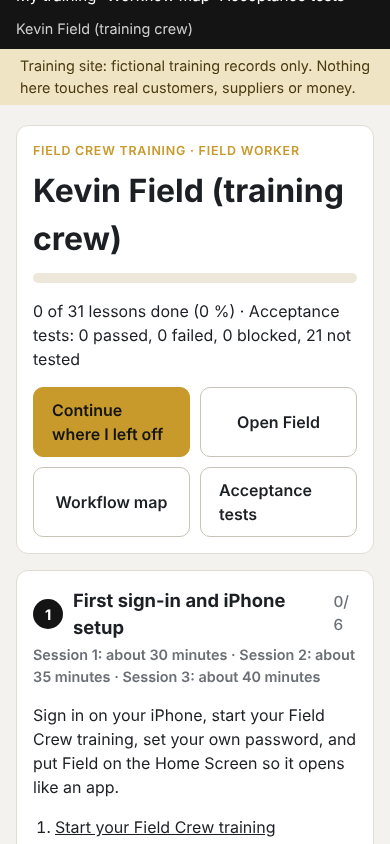
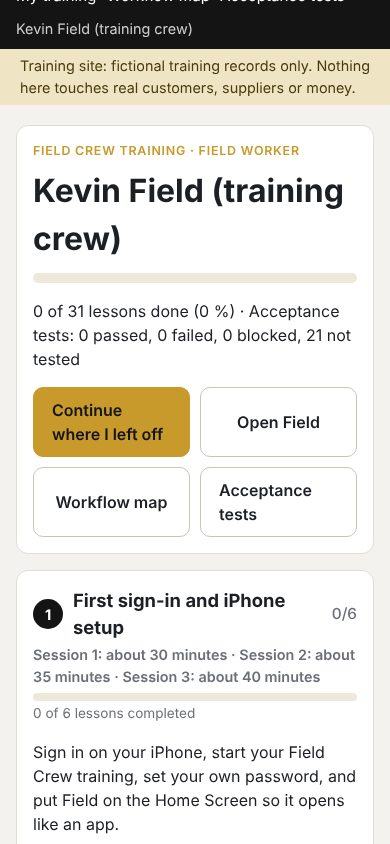
Training home: Completed, In Progress and Next lesson status; review is read-only
On the Contractor, Field Crew and Supplier training homes, from the existing saved progress:
a green checked box and Completed beside each finished lesson with a Review again link,
In Progress (with the steps ticked) for started lessons, the next recommended lesson (where
Continue where I left off goes) highlighted with a Next badge, and per-module counts with a
progress bar and Module complete. Module time estimates and sessions are kept.

Reviewing a completed lesson no longer writes anything: opening or stepping through it used
to move the trainee's resume point, and a tick could be undone; now save_step, check_step and
complete_lesson leave a completed lesson's record (completed_at, ticks, release) and the resume
point untouched. The lesson page says it is being reviewed, ticks are shown but disabled and
Finish is hidden. No model, migration, lesson key or UAT change.

Tests: tests/test_training_progress_status.py (all three pathways); two training-walk checks
(desktop and phone 390 px); BROWSER_EXPECTED 213 -> 215. Recaptured the four training-home
lesson screenshots.

Claude-Session: https://claude.ai/code/session_01Gt3yQsGEScje26ZopVkG3s

Changed region(s): [[0.0615, 0.8009, 0.9231, 1.0], [0.8308, 0.7085, 0.9231, 0.7393]]

diff --git a/app/templates/training/home.html b/app/templates/training/home.html
@@ -17,14 +17,18 @@
   </div>
 </section>
 {% for row in ov.modules %}
-<section class="tc-card tc-module" data-module="{{ row.module.key }}">
-  <h2><span class="tc-num">{{ row.module.number }}</span> {{ row.module.title }} <small>{{ row.done }}/{{ row.total }}</small></h2>
+<section class="tc-card tc-module{% if row.done == row.total %} tc-module-complete{% endif %}" data-module="{{ row.module.key }}">
+  <h2><span class="tc-num">{{ row.module.number }}</span> {{ row.module.title }} <small data-module-count>{{ row.done }}/{{ row.total }}</small></h2>
   {% if row.time %}<p class="tc-module-time" data-module-time="{{ row.time.minutes }}">{% if row.time.split %}{% for s in row.time.sessions %}<span data-session="{{ s.number }}">Session {{ s.number }}: {{ s.label|lower }}</span>{% if not loop.last %} · {% endif %}{% endfor %}{% else %}{{ row.time.label }}{% endif %}</p>{% endif %}
+  <div class="tc-module-progress" data-module-progress="{{ row.percent }}">
+    <div class="tc-bar tc-bar-module" role="progressbar" aria-label="{{ row.module.title }} progress" aria-valuenow="{{ row.percent }}" aria-valuemin="0" aria-valuemax="100"><span style="width: {{ row.percent }}%"></span></div>
+    <p class="tc-small" data-module-summary>{% if row.done == row.total %}<b class="tc-module-done">&#10003; Module complete</b> · {{ row.total }} of {{ row.total }} lessons completed{% else %}{{ row.done }} of {{ row.total }} lessons completed{% if row.started %} · {{ row.started }} in progress{% endif %}{% endif %}</p>
+  </div>
   <p>{{ row.module.summary }}</p>
   <ol class="tc-lessons">
     {% for x in row.lessons %}
-    <li class="tc-lesson tc-{{ x.state }}">{% if x.session_start %}<span class="tc-session-break" data-session-start="{{ x.session_start }}">Session {{ x.session_start }}</span>{% endif %}<a href="{{ url_for('training.lesson', key=x.lesson.key, step=x.step) }}" data-lesson="{{ x.lesson.key }}">{{ x.lesson.title }}</a>
-      <span class="tc-state" data-lesson-state>{% if x.state == 'done' %}Done{% elif x.ticked %}{{ x.ticked }} of {{ x.steps }} steps{% elif x.state == 'started' %}Started{% endif %}</span></li>
+    <li data-lesson-row="{{ x.lesson.key }}" data-lesson-status="{{ 'completed' if x.state == 'done' else ('in-progress' if x.state == 'started' else 'not-started') }}"{% if x.next %} data-next-recommended{% endif %} class="tc-lesson tc-{{ x.state }}{% if x.next %} tc-next{% endif %}">{% if x.session_start %}<span class="tc-session-break" data-session-start="{{ x.session_start }}">Session {{ x.session_start }}</span>{% endif %}<span class="tc-lesson-line"><span class="tc-lesson-box" aria-hidden="true">{% if x.state == 'done' %}&#10003;{% endif %}</span><a href="{{ url_for('training.lesson', key=x.lesson.key, step=0 if x.state == 'done' else x.step) }}" data-lesson="{{ x.lesson.key }}">{{ x.lesson.title }}</a></span>
+      <span class="tc-lesson-badges">{% if x.state == 'done' %}<span class="tc-badge tc-badge-done" data-lesson-state>Completed</span> <a class="tc-review-again" href="{{ url_for('training.lesson', key=x.lesson.key, step=0) }}" data-review-again="{{ x.lesson.key }}" aria-label="Review again: {{ x.lesson.title }}">Review again</a>{% elif x.state == 'started' %}<span class="tc-badge tc-badge-progress" data-lesson-state>In Progress</span> <span class="tc-state" data-lesson-steps>{% if x.ticked %}{{ x.ticked }} of {{ x.steps }} steps{% else %}Started{% endif %}</span>{% endif %}{% if x.next %} <span class="tc-badge tc-badge-next" data-next-badge>Next</span>{% endif %}</span></li>
     {% endfor %}
   </ol>
 </section>

diff --git a/app/templates/training/lesson.html b/app/templates/training/lesson.html
@@ -5,6 +5,8 @@
 <article class="tc-card tc-lesson-page" data-lesson-page="{{ lesson.key }}" data-step-index="{{ step }}">
   <p class="tc-eyebrow">Module {{ module.number }} · {{ module.title }}</p>
   <h1>{{ lesson.title }}</h1>
+  {% set reviewing = progress and progress.completed_at %}
+  {% if reviewing %}<p class="tc-review-note" data-reviewing><span class="tc-badge tc-badge-done">&#10003; Completed</span> {{ progress.completed_at|local_time("%d %b %Y", zone_label=False) }}. You are reviewing this lesson: step through it as often as you like. Your completion and your acceptance test results stay as they are.</p>{% endif %}
   {% if workflow_stages %}<p class="tc-small tc-workflow-stage" data-lesson-stages>Workflow map:
     {% for s in workflow_stages %}<a href="{{ url_for('training.workflow_map', stage=s.id) }}#workflow-stage" data-lesson-stage="{{ s.id }}">Stage {{ s.number }} · {{ s.label }} — {{ s.title }}</a>{% if not loop.last %} · {% endif %}{% endfor %}</p>{% endif %}
   <div class="tc-intro"><p><b>What you will do:</b> {{ lesson.what }}</p><p><b>Why it matters:</b> {{ lesson.why }}</p>
@@ -46,7 +48,7 @@
         <input type="hidden" name="csrf_token" value="{{ csrf_token() }}">
         <input type="hidden" name="step" value="{{ i }}">
         <input type="hidden" name="done" value="{{ '0' if i in ticked else '1' }}">
-        <button type="submit" class="tc-tick-btn{% if i in ticked %} is-done{% endif %}" data-tick="{{ i }}" aria-pressed="{{ 'true' if i in ticked else 'false' }}">
+        <button type="submit" class="tc-tick-btn{% if i in ticked %} is-done{% endif %}" data-tick="{{ i }}" aria-pressed="{{ 'true' if i in ticked else 'false' }}"{% if reviewing %} disabled title="This lesson is completed: reviewing it keeps your ticks"{% endif %}>
           <span class="tc-tick-box" aria-hidden="true">{% if i in ticked %}&#10003;{% endif %}</span>
           <span class="tc-tick-label">{{ 'Done' if i in ticked else 'I did this step' }}</span>
         </button>
@@ -59,9 +61,9 @@
     <input type="hidden" name="csrf_token" value="{{ csrf_token() }}">
     <h2>Practice exercise</h2>
     <p>{{ lesson.exercise }}</p>
-    <label><input type="checkbox" name="exercise_done" value="1" {% if progress and progress.exercise_done %}checked{% endif %} data-exercise> I did the practice exercise on the training site</label>
-    <button class="tc-btn tc-btn-primary" type="submit" data-complete>Finish this lesson</button>
-    {% if progress and progress.completed_at %}<p class="tc-lesson-done" data-lesson-complete>&#10003; Lesson complete</p>{% endif %}
+    {% if reviewing %}<p class="tc-lesson-done" data-lesson-complete>&#10003; Lesson complete</p>
+    {% else %}<label><input type="checkbox" name="exercise_done" value="1" {% if progress and progress.exercise_done %}checked{% endif %} data-exercise> I did the practice exercise on the training site</label>
+    <button class="tc-btn tc-btn-primary" type="submit" data-complete>Finish this lesson</button>{% endif %}
   </form>
   <form method="post" action="{{ url_for('training.move', key=lesson.key) }}" class="tc-moves">
     <input type="hidden" name="csrf_token" value="{{ csrf_token() }}">

diff --git a/app/static/training/training.css b/app/static/training/training.css
@@ -124,3 +124,27 @@ dl dt { font-weight:700; margin-top:10px; } dl dd { margin:2px 0 0; overflow-wra
 /* Module times (Joel, 23 Oct 2026): "About 35 minutes", or Session 1 / Session 2 between lessons. */
 .tc-module-time { margin:-4px 0 6px; font-size:.9rem; font-weight:600; color:var(--muted, #5b6470); }
 .tc-session-break { display:block; margin:10px 0 2px; font-size:.78rem; font-weight:700; letter-spacing:.04em; text-transform:uppercase; color:var(--muted, #5b6470); }
+/* Lesson status on the training home (24 Oct 2026): Completed, In Progress and the next recommended lesson, from the
+   saved progress. Reviewing a completed lesson never changes it. */
+.tc-lesson { padding:5px 8px; border-radius:10px; border:1px solid transparent; overflow-wrap:anywhere; }
+.tc-lesson-line { display:inline; }
+.tc-lesson-line a { margin-left:6px; }
+.tc-lesson.tc-done a::before { content:none; }
+.tc-lesson-box { display:inline-grid; vertical-align:-4px; place-items:center; width:22px; height:22px; border:2px solid #c9c4b8; border-radius:5px; background:#fff; color:#fff; font-size:.9rem; font-weight:700; line-height:1; }
+.tc-done .tc-lesson-box { background:var(--green); border-color:var(--green); }
+.tc-started .tc-lesson-box { border-color:var(--amber); background:linear-gradient(90deg, #f3e3b8 50%, #fff 50%); }
+.tc-lesson-badges { display:inline-flex; flex-wrap:wrap; align-items:center; gap:4px 8px; margin-left:6px; vertical-align:middle; }
+.tc-lesson-badges .tc-state { margin-left:0; }
+.tc-badge { display:inline-block; padding:1px 9px; border-radius:999px; font-size:.8rem; font-weight:700; line-height:1.6; white-space:nowrap; }
+.tc-badge-done { background:#e3f1e8; color:var(--green); }
+.tc-badge-progress { background:#f6ecd2; color:#7a5500; }
+.tc-badge-next { background:var(--gold); color:#141414; }
+.tc-review-again { font-size:.85rem; font-weight:600; color:var(--green); }
+.tc-lesson.tc-next { border-color:var(--gold); background:#fbf6e8; box-shadow:0 0 0 2px rgba(199,154,43,.2); }
+.tc-module-progress { margin:4px 0 8px; } .tc-module-progress .tc-bar { height:8px; margin:6px 0 2px; }
+.tc-module-progress p { margin:0; }
+.tc-module-done { color:var(--green); }
+.tc-module-complete .tc-bar span { background:var(--green); }
+.tc-review-note { background:#eef6f0; border:1px solid #9fd0b0; border-radius:10px; padding:10px 12px; }
+.tc-tick-btn:disabled { cursor:default; opacity:.85; }
+.tc-module h2 small { white-space:nowrap; }

diff --git a/tests/test_training_progress_status.py b/tests/test_training_progress_status.py
@@ -1,0 +1,137 @@
+"""Training home lesson status (Joel, 24 Oct 2026): Completed with a green check and Review again, In Progress,
+the next recommended lesson highlighted, module counts, on the Contractor, Field Crew and Supplier pathways, all
+from the saved progress. Reviewing a completed lesson (opening it, stepping through it, ticking, Save and exit,
+Finish again) changes neither its completion nor any acceptance test result. Synthetic data only."""
+
+from __future__ import annotations
+
+import re
+
+import pytest
+
+from app import db
+from app.models.training import TrainingLessonProgress, TrainingTrainee, TrainingUatResult
+from app.training import content as C
+from app.training import service
+from tests.test_training_centre import _client, _get, _post, app  # noqa: F401  (the app fixture)
+
+pytestmark = pytest.mark.no_office_auth
+
+PATHWAYS = [("ben", "OWNER", "CONTRACTOR"), ("kevin", "FIELD", "FIELD_CREW"), ("darcy", "SUPPLIER_ADMIN", "SUPPLIER")]
+
+
+def _finish(client, lesson):
+    for i in range(len(lesson.steps)):
+        _post(client, f"/training/lessons/{lesson.key}/check", data={"step": i, "done": "1"},
+              headers={"X-Requested-With": "fetch"})
+    assert _post(client, f"/training/lessons/{lesson.key}/complete", data={"exercise_done": "1"}).status_code == 302
+
+
+def _row(home, key):
+    m = re.search(rf'<li data-lesson-row="{re.escape(key)}"(.*?)</li>', home, re.S)
+    assert m, key
+    return m.group(0)
+
+
+def _record(trainee_id):
+    db.session.expire_all()
+    lessons = {p.lesson_key: (p.step_reached, sorted(p.steps_done or []), p.exercise_done, p.completed_at, p.release)
+               for p in TrainingLessonProgress.query.filter_by(trainee_id=trainee_id)}
+    uat = [(r.case_key, r.attempt, r.status, r.notes, r.issue, r.recorded_at)
+           for r in TrainingUatResult.query.filter_by(trainee_id=trainee_id).order_by(TrainingUatResult.id)]
+    return lessons, uat
+
+
+@pytest.mark.parametrize("who,role,track", PATHWAYS)
+def test_home_shows_completed_in_progress_next_and_module_counts(app, who, role, track):  # noqa: F811
+    client = _client(app, who)
+    _post(client, "/training/register", data={"role": role})
+    lessons = C.lessons_for(track, role)
+    first, second, third = lessons[0][1], lessons[1][1], lessons[2][1]
+    _finish(client, first)
+    # The second lesson is started (one step ticked) and left with Save and exit.
+    _post(client, f"/training/lessons/{second.key}/check", data={"step": 0, "done": "1"})
+    _post(client, f"/training/lessons/{second.key}/move", data={"step": 1, "action": "exit"})
+    home = _get(client, "/training").get_data(as_text=True)
+
+    done = _row(home, first.key)
+    assert 'data-lesson-status="completed"' in done and "tc-done" in done
+    assert '<span class="tc-lesson-box" aria-hidden="true">&#10003;</span>' in done
+    assert ">Completed</span>" in done and f'data-review-again="{first.key}"' in done and "Review again" in done
+    assert f"/training/lessons/{first.key}?step=0" in done  # completed lessons stay clickable, from the start
+    assert "data-next-recommended" not in done
+
+    started = _row(home, second.key)
+    assert 'data-lesson-status="in-progress"' in started and ">In Progress</span>" in started
+    assert f"1 of {len(second.steps)} steps" in started
+    assert "data-next-recommended" in started and "tc-next" in started and ">Next</span>" in started
+    assert home.count("data-next-recommended") == 1 and home.count("data-next-badge") == 1
+
+    fresh = _row(home, third.key)
+    assert 'data-lesson-status="not-started"' in fresh and "Completed" not in fresh and "In Progress" not in fresh
+
+    ov = service.overview(TrainingTrainee.query.one())
+    row = ov["modules"][0]
+    m = re.search(rf'data-module="{row["module"].key}".*?</section>', home, re.S).group(0)
+    assert f'<small data-module-count>{row["done"]}/{row["total"]}</small>' in m
+    assert f'data-module-progress="{row["percent"]}"' in m
+    in_module = {x["lesson"].key for x in row["lessons"]}
+    assert row["done"] == 1 and row["started"] == (1 if second.key in in_module else 0)
+    assert f"{row['done']} of {row['total']} lessons completed" in m
+    # Module times are kept.
+    if row["time"]:
+        assert f'data-module-time="{row["time"].minutes}"' in m
+
+
+def test_a_finished_module_shows_module_complete(app):  # noqa: F811
+    ben = _client(app, "ben")
+    _post(ben, "/training/register", data={"role": "OWNER"})
+    module = C.modules_for("CONTRACTOR", "OWNER")[0]
+    for lesson in module.lessons:
+        _finish(ben, lesson)
+    home = _get(ben, "/training").get_data(as_text=True)
+    m = re.search(rf'<section [^>]*data-module="{module.key}".*?</section>', home, re.S).group(0)
+    assert "tc-module-complete" in m and "Module complete" in m and 'data-module-progress="100"' in m
+    assert m.count('data-lesson-status="completed"') == len(module.lessons)
+    nxt = C.modules_for("CONTRACTOR", "OWNER")[1].lessons[0]
+    assert "data-next-recommended" in _row(home, nxt.key)
+
+
+@pytest.mark.parametrize("who,role,track", PATHWAYS)
+def test_reviewing_a_completed_lesson_changes_nothing(app, who, role, track):  # noqa: F811
+    client = _client(app, who)
+    _post(client, "/training/register", data={"role": role})
+    lessons = C.lessons_for(track, role)
+    first, second = lessons[0][1], lessons[1][1]
+    _finish(client, first)
+    # Part-way through the next lesson, and acceptance results with a retest.
+    _post(client, f"/training/lessons/{second.key}/check", data={"step": 0, "done": "1"})
+    trainee = TrainingTrainee.query.one()
+    case = C.uat_for(track, role)[0].key
+    _post(client, f"/training/uat/{case}", data={"status": "FAIL", "issue": "Synthetic issue", "notes": "first try"})
+    _post(client, f"/training/uat/{case}", data={"status": "PASS", "notes": "retest"})
+    db.session.expire_all()
+    resume = TrainingTrainee.query.one().training_resume
+    before = _record(trainee.id)
+    assert before[0][first.key][3] is not None and len(before[1]) == 2
+
+    page = _get(client, f"/training/lessons/{first.key}?step=0").get_data(as_text=True)
+    assert "data-reviewing" in page and "Completed" in page and "data-complete" not in page
+    assert page.count('data-tick="') == len(first.steps) and page.count(" disabled title=") == len(first.steps)
+    for i in range(len(first.steps)):  # stepping through
+        assert _get(client, f"/training/lessons/{first.key}?step={i}").status_code == 200
+        _post(client, f"/training/lessons/{first.key}/move", data={"step": i, "action": "next"})
+    # An untick (a stale page or a hand-made request) is ignored on a completed lesson.
+    r = _post(client, f"/training/lessons/{first.key}/check", data={"step": 0, "done": "0"},
+              headers={"X-Requested-With": "fetch"})
+    assert r.status_code == 200 and r.get_json()["done"] is True and r.get_json()["ticked"] == len(first.steps)
+    _post(client, f"/training/lessons/{first.key}/complete", data={"exercise_done": "1"})
+    _post(client, f"/training/lessons/{first.key}/move", data={"step": 0, "action": "exit"})
+
+    assert _record(trainee.id) == before  # same completed_at, ticks, release; UAT attempts unchanged
+    assert TrainingTrainee.query.one().training_resume == resume  # Continue still goes to the lesson in progress
+    home = _get(client, "/training").get_data(as_text=True)
+    assert 'data-lesson-status="completed"' in _row(home, first.key)
+    assert "data-next-recommended" in _row(home, second.key)
+    assert f"/training/lessons/{second.key}?step=" in re.search(r'data-continue href="([^"]+)"', home).group(1)
+    assert _get(client, "/training/uat").status_code == 200

diff --git a/app/training/service.py b/app/training/service.py
@@ -140,8 +140,10 @@ def _overview(trainee, track: str, role: str) -> dict:
         starts = time.session_starts() if time else {}
         for x in lessons:
             x["session_start"] = starts.get(x["lesson"].key)
-        rows.append({"module": module, "lessons": lessons, "time": time,
-                     "done": sum(1 for x in lessons if x["state"] == "done"), "total": len(lessons)})
+        m_done = sum(1 for x in lessons if x["state"] == "done")
+        rows.append({"module": module, "lessons": lessons, "time": time, "done": m_done, "total": len(lessons),
+                     "started": sum(1 for x in lessons if x["state"] == "started"),
+                     "percent": int(round(100 * m_done / len(lessons))) if lessons else 0})
     nxt = None
     if trainee.training_resume and track == trainee.track:
         key, _, step = trainee.training_resume.partition(":")
@@ -150,6 +152,10 @@ def _overview(trainee, track: str, role: str) -> dict:
     if nxt is None:
         first = next((x for r in rows for x in r["lessons"] if x["state"] != "done"), None)
         nxt = (first["lesson"].key, first["step"]) if first else None
+    # The next recommended lesson (24 Oct 2026) is the one Continue where I left off opens; it is highlighted.
+    for r in rows:
+        for x in r["lessons"]:
+            x["next"] = bool(nxt and x["lesson"].key == nxt[0])
     return {"modules": rows, "done": done, "total": total, "percent": int(round(100 * done / total)) if total else 0,
             "resume": nxt}
 
@@ -171,6 +177,10 @@ def save_step(trainee, key: str, step: int) -> TrainingLessonProgress:
     _module, lesson = lesson_for_trainee(trainee, key)
     step = max(0, min(int(step), len(lesson.steps) - 1))
     p = TrainingLessonProgress.query.filter_by(trainee_id=trainee.id, lesson_key=key).first()
+    if p is not None and p.completed_at:
+        # Reviewing a completed lesson (24 Oct 2026) is read-only: opening it or stepping through it changes
+        # neither its record nor where Continue where I left off goes.
+        return p
     if p is None:
         p = TrainingLessonProgress(trainee_id=trainee.id, lesson_key=key, step_reached=step, steps_done=[],
                                    exercise_done=False, release=release_label())
@@ -188,6 +198,8 @@ def check_step(trainee, key: str, index: int, done: bool) -> TrainingLessonProgr
     if not 0 <= index < len(lesson.steps):
         raise TrainingError("That step is not in this lesson.")
     p = save_step(trainee, key, index)
+    if p.completed_at:
+        return p  # a completed lesson's ticks are kept as they were; review cannot untick them
     ticked = set(p.steps_done or [])
     if done:
         ticked.add(index)
@@ -208,6 +220,9 @@ def steps_ticked(trainee, key: str) -> List[int]:
 
 def complete_lesson(trainee, key: str, exercise_done: bool) -> TrainingLessonProgress:
     _module, lesson = lesson_for_trainee(trainee, key)
+    done = TrainingLessonProgress.query.filter_by(trainee_id=trainee.id, lesson_key=key).first()
+    if done is not None and done.completed_at:
+        return done  # already complete: its completion date and release stay as recorded
     missing = [i + 1 for i in range(len(lesson.steps)) if i not in set(steps_ticked(trainee, key))]
     if missing:
         raise TrainingError("Tick each step as you do it first. Not ticked yet: step " + ", ".join(map(str, missing)) + ".")

diff --git a/tests/test_training_module_times_and_role_switch.py b/tests/test_training_module_times_and_role_switch.py
@@ -174,7 +174,7 @@ def test_an_office_trainee_takes_contractor_then_field_and_back_with_both_record
     assert _post(olivia, "/training/register", data={"role": "OFFICE"}).status_code == 302
     db.session.expire_all()
     home = _get(olivia, "/training").get_data(as_text=True)
-    assert re.search(rf'tc-done"><a [^>]*data-lesson="{office_lesson}"', home)
+    assert re.search(rf'data-lesson-row="{office_lesson}" data-lesson-status="completed"[^>]*class="tc-lesson tc-done', home)
     total = len(C.lessons_for(C.PATHWAY_CONTRACTOR, "OFFICE"))
     assert f"1 of {total} lessons done" in home and "Acceptance tests: 1 passed, 0 failed" in home
     assert _snapshot(trainee.id, contractor_keys) == contractor_before

diff --git a/tests/test_training_centre.py b/tests/test_training_centre.py
@@ -138,7 +138,7 @@ def test_lessons_save_resume_back_next_and_complete(app):
     p = TrainingLessonProgress.query.one()
     assert p.completed_at is not None and p.exercise_done and p.step_reached == last
     home = _get(ben, "/training").get_data(as_text=True)
-    assert "1 of" in home and "Done" in home
+    assert "1 of" in home and ">Completed<" in home and "Review again" in home
     # A lesson outside the person's pathway is not theirs.
     supplier_lesson = C.lessons_for("SUPPLIER", "PRO_DESK")[0][1]
     assert _get(ben, f"/training/lessons/{supplier_lesson.key}").status_code == 404
